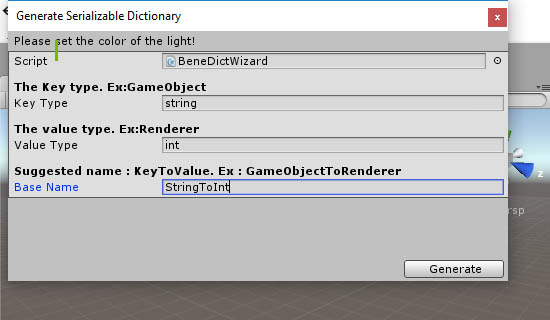
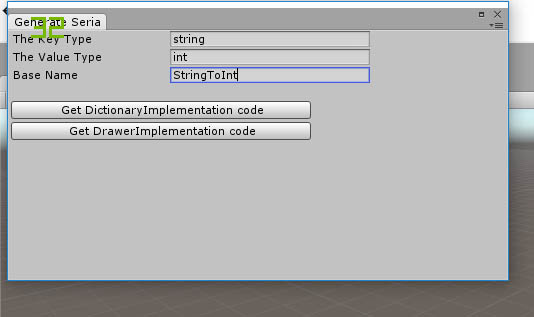
- Correct error on build - Code is now generated for two different files - Correct README images

diff --git a/Assets/BeneDict/Editor/BeneDictWindow.cs b/Assets/BeneDict/Editor/BeneDictWindow.cs
@@ -1,0 +1,99 @@
+// Creates a simple wizard that lets you create a Light GameObject
+// or if the user clicks in "Apply", it will set the color of the currently
+// object selected to red
+
+using System;
+using UnityEditor;
+using UnityEngine;
+
+public class BeneDictWindow : EditorWindow {
+    public string keyType = "";
+    public string valueType = "";
+    public string baseName = "";
+
+    [MenuItem("Window/BeneDict")]
+    static void Init() {
+        BeneDictWindow window = (BeneDictWindow)EditorWindow.GetWindow(typeof(BeneDictWindow));
+        window.title = "Generate SerializableDictionary code";
+    }
+
+    private void OnGUI() {
+        GUILayout.BeginVertical();
+
+        GUILayout.BeginHorizontal();
+        GUILayout.Label("The Key Type", new GUILayoutOption[] { GUILayout.Width(155) });
+        keyType = GUILayout.TextField(keyType, new GUILayoutOption[] { GUILayout.Width(200) });
+        GUILayout.EndHorizontal();
+
+        GUILayout.BeginHorizontal();
+        GUILayout.Label("The Value Type", new GUILayoutOption[] { GUILayout.Width(155) });
+        valueType = GUILayout.TextField(valueType, new GUILayoutOption[] { GUILayout.Width(200) });
+        GUILayout.EndHorizontal();
+
+        GUILayout.BeginHorizontal();
+        GUILayout.Label("Base Name", new GUILayoutOption[] { GUILayout.Width(155) });
+        baseName = GUILayout.TextField(baseName, new GUILayoutOption[] { GUILayout.Width(200) });
+        GUILayout.EndHorizontal();
+
+        GUILayout.EndVertical();
+
+        GUILayout.Space(15);
+
+        if (GUILayout.Button("Get DictionaryImplementation code", new[] { GUILayout.Width(300) })) {
+            string TEMPLATE = @"
+// ---------------
+//  {0} => {1}
+// ---------------
+[Serializable]
+public class {2}Dictionary : SerializableDictionary<{3}, {4}> {{ }}
+
+";
+            string op = String.Format(
+                TEMPLATE,
+                keyType,
+                valueType,
+                baseName,
+                keyType,
+                valueType
+            );
+            EditorGUIUtility.systemCopyBuffer = op;
+            EditorUtility.DisplayDialog("BeneDict Message", "Copied to your clipboard. Go to SerializableDictionaryImplementations.cs and paste the generated code!", "OK");
+        }
+
+        if (GUILayout.Button("Get DrawerImplementation code", new[] { GUILayout.Width(300) })) {
+            string TEMPLATE = @"
+// ---------------
+//  {0} => {1}
+// ---------------
+[UnityEditor.CustomPropertyDrawer(typeof({2}Dictionary))]
+public class {3}DictionaryDrawer : SerializableDictionaryDrawer<{4}, {5}> {{
+    protected override SerializableKeyValueTemplate<{6}, {7}> GetTemplate() {{
+        return GetGenericTemplate<Serializable{8}Template>();
+    }}
+}}
+internal class Serializable{9}Template : SerializableKeyValueTemplate<{10}, {11}> {{ }}";
+
+            string op = String.Format(
+                TEMPLATE,
+                baseName,
+                valueType,
+                baseName,
+                baseName,
+                keyType,
+                valueType,
+                keyType,
+                valueType,
+                baseName,
+                baseName,
+                keyType,
+                valueType
+            );
+            EditorGUIUtility.systemCopyBuffer = op;
+            EditorUtility.DisplayDialog("BeneDict Message", "Copied to your clipboard. Go to SerializableDictionaryDrawerImplementations.cs and paste the generated code!", "OK");
+        }
+    }
+
+    private void Awake() {
+        minSize = new Vector2(500, 250);
+    }
+}

diff --git a/Assets/BeneDict/SerializableDictionaryImplementations.cs b/Assets/BeneDict/SerializableDictionaryImplementations.cs
@@ -1,6 +1,5 @@
 using System;
 using UnityEngine;
-using UnityEditor;
 
 // ---------------
 //  String => Int
@@ -8,39 +7,15 @@ using UnityEditor;
 [Serializable]
 public class StringIntDictionary : SerializableDictionary<string, int> { }
 
-[UnityEditor.CustomPropertyDrawer(typeof(StringIntDictionary))]
-public class StringIntDictionaryDrawer : SerializableDictionaryDrawer<string, int> {
-    protected override SerializableKeyValueTemplate<string, int> GetTemplate() {
-        return GetGenericTemplate<SerializableStringIntTemplate>();
-    }
-}
-internal class SerializableStringIntTemplate : SerializableKeyValueTemplate<string, int> { }
-
 // ---------------
 //  GameObject => Float
 // ---------------
 [Serializable]
 public class GameObjectFloatDictionary : SerializableDictionary<GameObject, float> { }
 
-[UnityEditor.CustomPropertyDrawer(typeof(GameObjectFloatDictionary))]
-public class GameObjectFloatDictionaryDrawer : SerializableDictionaryDrawer<GameObject, float> {
-    protected override SerializableKeyValueTemplate<GameObject, float> GetTemplate() {
-        return GetGenericTemplate<SerializableGameObjectFloatTemplate>();
-    }
-}
-internal class SerializableGameObjectFloatTemplate : SerializableKeyValueTemplate<GameObject, float> { }
-
-
 // ---------------
-//  string => string
+//  string => int
 // ---------------
 [Serializable]
-public class StringToStringDictionary : SerializableDictionary<string, string> { }
+public class StringToIntDictionary : SerializableDictionary<string, int> { }
 
-[UnityEditor.CustomPropertyDrawer(typeof(StringToStringDictionary))]
-public class StringToStringDictionaryDrawer : SerializableDictionaryDrawer<string, string> {
-    protected override SerializableKeyValueTemplate<string, string> GetTemplate() {
-        return GetGenericTemplate<SerializableStringToStringTemplate>();
-    }
-}
-internal class SerializableStringToStringTemplate : SerializableKeyValueTemplate<string, string> { }

diff --git a/Assets/BeneDict/Editor/SerializableDictionaryDrawerImplementations.cs b/Assets/BeneDict/Editor/SerializableDictionaryDrawerImplementations.cs
@@ -1,0 +1,34 @@
+using UnityEngine;
+
+// ---------------
+//  String => Int
+// ---------------
+[UnityEditor.CustomPropertyDrawer(typeof(StringIntDictionary))]
+public class StringIntDictionaryDrawer : SerializableDictionaryDrawer<string, int> {
+    protected override SerializableKeyValueTemplate<string, int> GetTemplate() {
+        return GetGenericTemplate<SerializableStringIntTemplate>();
+    }
+}
+internal class SerializableStringIntTemplate : SerializableKeyValueTemplate<string, int> { }
+
+// ---------------
+//  GameObject => Float
+// ---------------
+[UnityEditor.CustomPropertyDrawer(typeof(GameObjectFloatDictionary))]
+public class GameObjectFloatDictionaryDrawer : SerializableDictionaryDrawer<GameObject, float> {
+    protected override SerializableKeyValueTemplate<GameObject, float> GetTemplate() {
+        return GetGenericTemplate<SerializableGameObjectFloatTemplate>();
+    }
+}
+internal class SerializableGameObjectFloatTemplate : SerializableKeyValueTemplate<GameObject, float> { }
+
+// ---------------
+//  StringToInt => int
+// ---------------
+[UnityEditor.CustomPropertyDrawer(typeof(StringToIntDictionary))]
+public class StringToIntDictionaryDrawer : SerializableDictionaryDrawer<string, int> {
+    protected override SerializableKeyValueTemplate<string, int> GetTemplate() {
+        return GetGenericTemplate<SerializableStringToIntTemplate>();
+    }
+}
+internal class SerializableStringToIntTemplate : SerializableKeyValueTemplate<string, int> { }

diff --git a/README.md b/README.md
@@ -9,11 +9,11 @@ A code generating wizard that works on  Fredrik Ludvigsen's SerializableDictiona
 ![](https://raw.githubusercontent.com/adrenak/BeneDict/master/git-img/benedict-1.jpg)
 
 
-- Click Generate, the code is copied to your clipboard.
+- One button at a time, the code is copied to your clipboard.
 ![](https://raw.githubusercontent.com/adrenak/BeneDict/master/git-img/benedict-2.jpg)
   
   
-- Paste the generated code anywhere in your project (or the implementations file provided) and access your *baseName*Dictionary class.
+- Paste the generated code in the implementations files and access your *baseName*Dictionary class.
 ![](https://raw.githubusercontent.com/adrenak/BeneDict/master/git-img/benedict-3.jpg)
 
 # Contact
